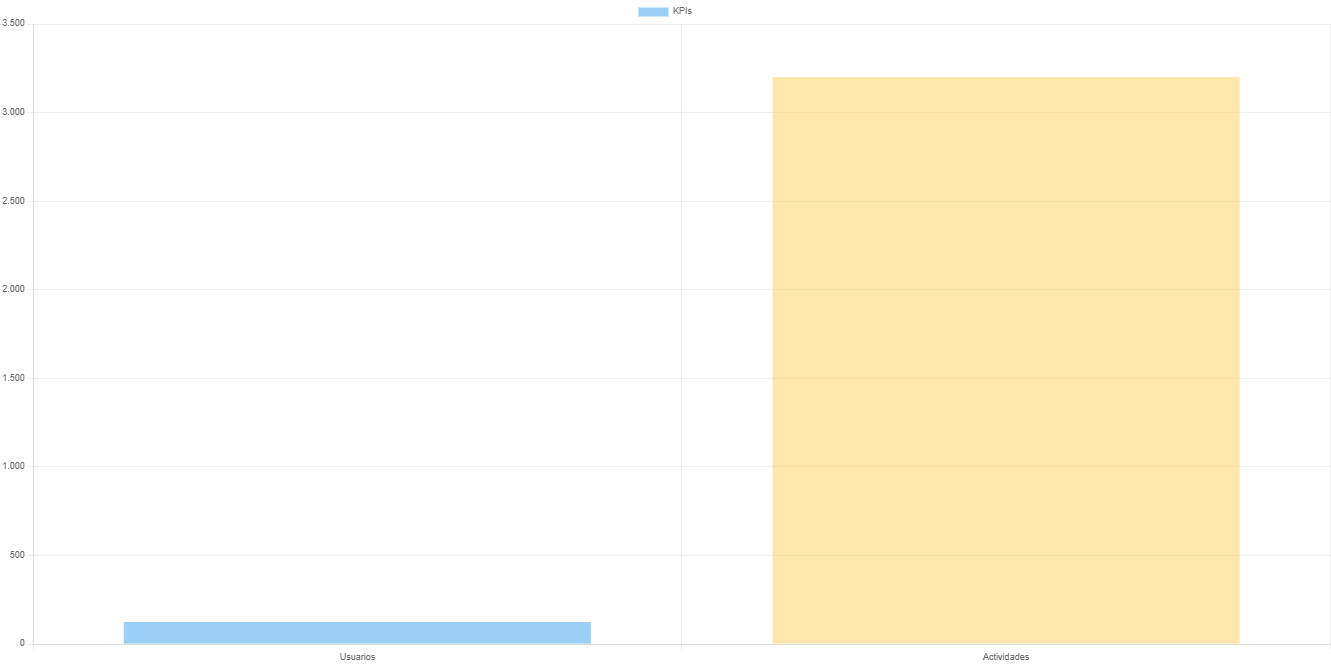
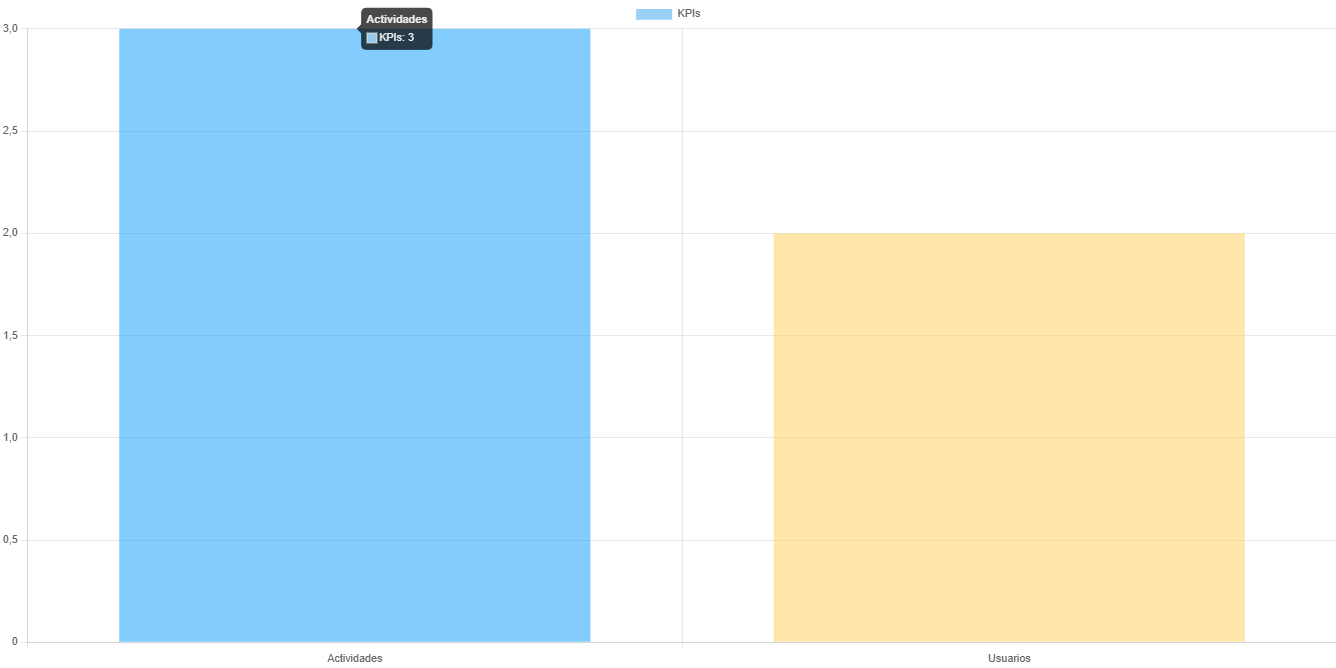
Merge

diff --git a/wwwroot/css/cofiguraciones.css b/wwwroot/css/cofiguraciones.css
@@ -1,0 +1,54 @@
+body {
+    font-family: 'Segoe UI', sans-serif;
+    margin: 0;
+    padding: 0;
+    background-color: #f4f6f8;
+}
+
+.config-container {
+    max-width: 800px;
+    margin: 40px auto;
+    padding: 20px 30px;
+    background-color: white;
+    border-radius: 12px;
+    box-shadow: 0 4px 10px rgba(0,0,0,0.1);
+}
+
+header {
+    display: flex;
+    justify-content: space-between;
+    align-items: center;
+}
+
+    header h1 {
+        font-size: 28px;
+        color: #333;
+    }
+
+.salir-btn {
+    background-color: #d9534f;
+    color: white;
+    text-decoration: none;
+    padding: 8px 16px;
+    border-radius: 6px;
+    font-weight: bold;
+    transition: background-color 0.3s ease;
+}
+
+    .salir-btn:hover {
+        background-color: #c9302c;
+    }
+
+.funcionalidades {
+    margin-top: 30px;
+}
+
+    .funcionalidades h2 {
+        font-size: 22px;
+        color: #444;
+    }
+
+    .funcionalidades p {
+        color: #666;
+        font-size: 16px;
+    }

diff --git a/wwwroot/js/cargarMapa.js b/wwwroot/js/cargarMapa.js
@@ -81,7 +81,9 @@ function loadGoogleMapsAPI() {
     script.src = "https://maps.googleapis.com/maps/api/js?key=" + apiKey + "&callback=initMap&libraries=marker";
     script.async = true;
     script.defer = true;
+    console.log("Script URL:", script.src);
     document.head.appendChild(script);
+    console.log("esta corriendo2222")
 }
 
 document.addEventListener('DOMContentLoaded', function () {

diff --git a/Controllers/ReporteController.cs b/Controllers/ReporteController.cs
@@ -2,17 +2,22 @@
 using Naitv1.Services;
 using Naitv1.Helpers;
 using Naitv1.Data.Repositories;
+using Naitv1.Data;
+using Naitv1.Models;
+using Microsoft.EntityFrameworkCore;
 
 namespace Naitv1.Controllers
 {
     public class ReporteController : Controller
     {
+        private readonly AppDbContext _context;
         private readonly GeneradorReportesService _reporteService;
         private readonly pdfServices _pdfServices;
         private readonly IEmailServices _emailServices;
         private readonly IActividadRepository _actividadRepository;
-        public ReporteController(GeneradorReportesService reporteService, pdfServices pdfServices, IEmailServices emailServices, IActividadRepository actividadRepository)
+        public ReporteController(AppDbContext context,GeneradorReportesService reporteService, pdfServices pdfServices, IEmailServices emailServices, IActividadRepository actividadRepository)
         {
+            _context = context;
             _reporteService = reporteService;
             _pdfServices = pdfServices;
             _emailServices = emailServices;
@@ -30,6 +35,12 @@ namespace Naitv1.Controllers
 
         public IActionResult VerGrafico()
         {
+            int actividades = _context.Actividades.Count();
+            int usuarios = _context.Usuarios.Count();
+            ViewBag.Actividad = actividades;
+            ViewBag.Usuarios = usuarios;
+            
+
             if (UsuarioLogueado.esSuperAdmin(HttpContext.Session) == false)
             {
                 return RedirectToAction("RestriccionAcceso", "Reporte");
@@ -88,6 +99,7 @@ namespace Naitv1.Controllers
             return RedirectToAction("Index", "Home");
         }
 
+      
 
 
         public class ImagenDto
